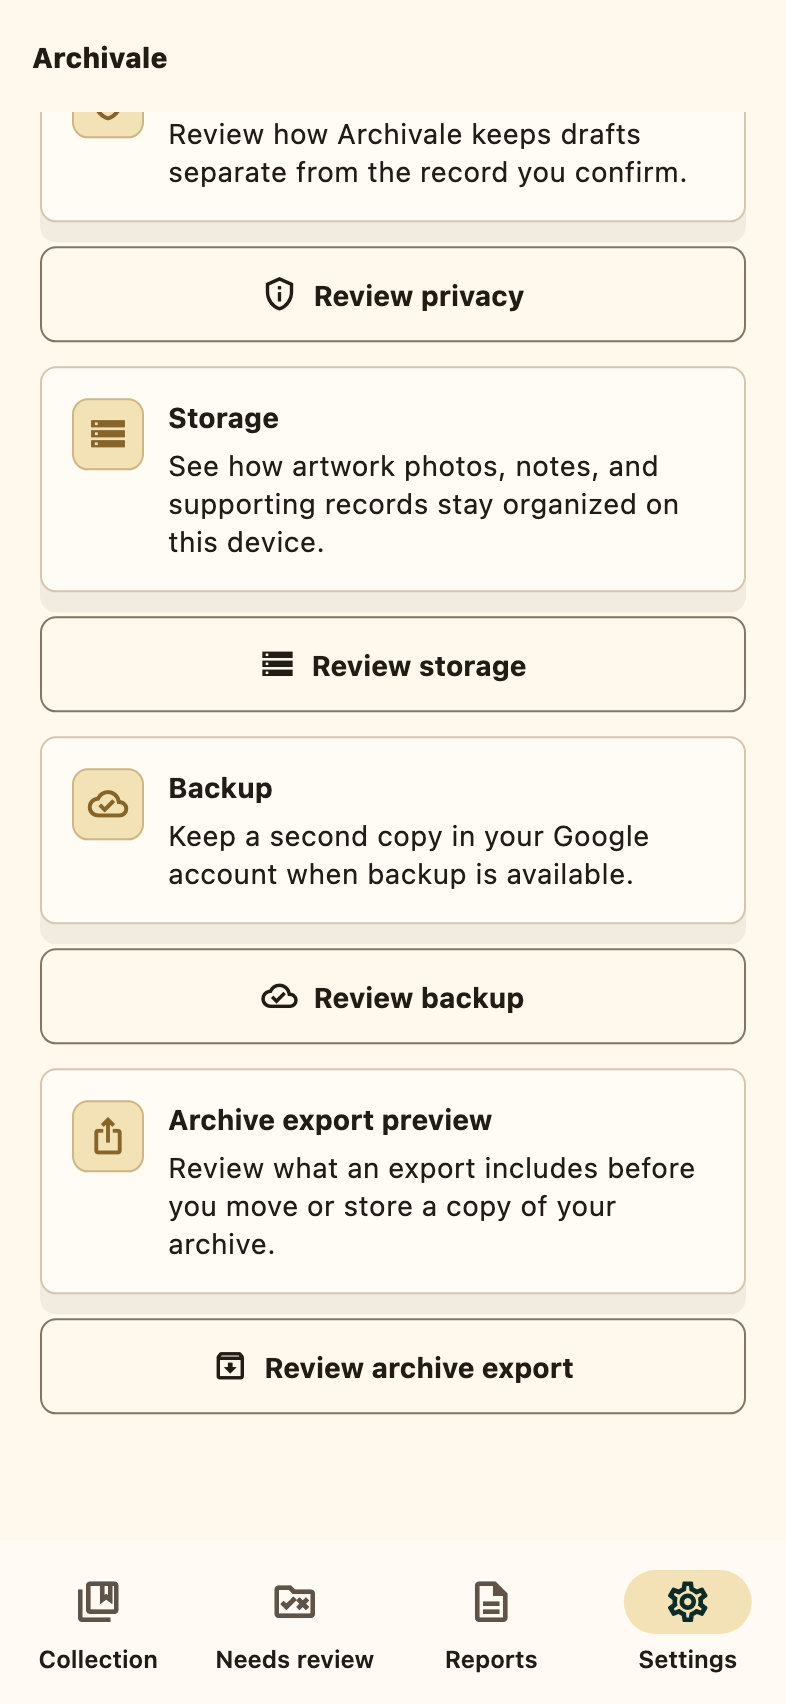
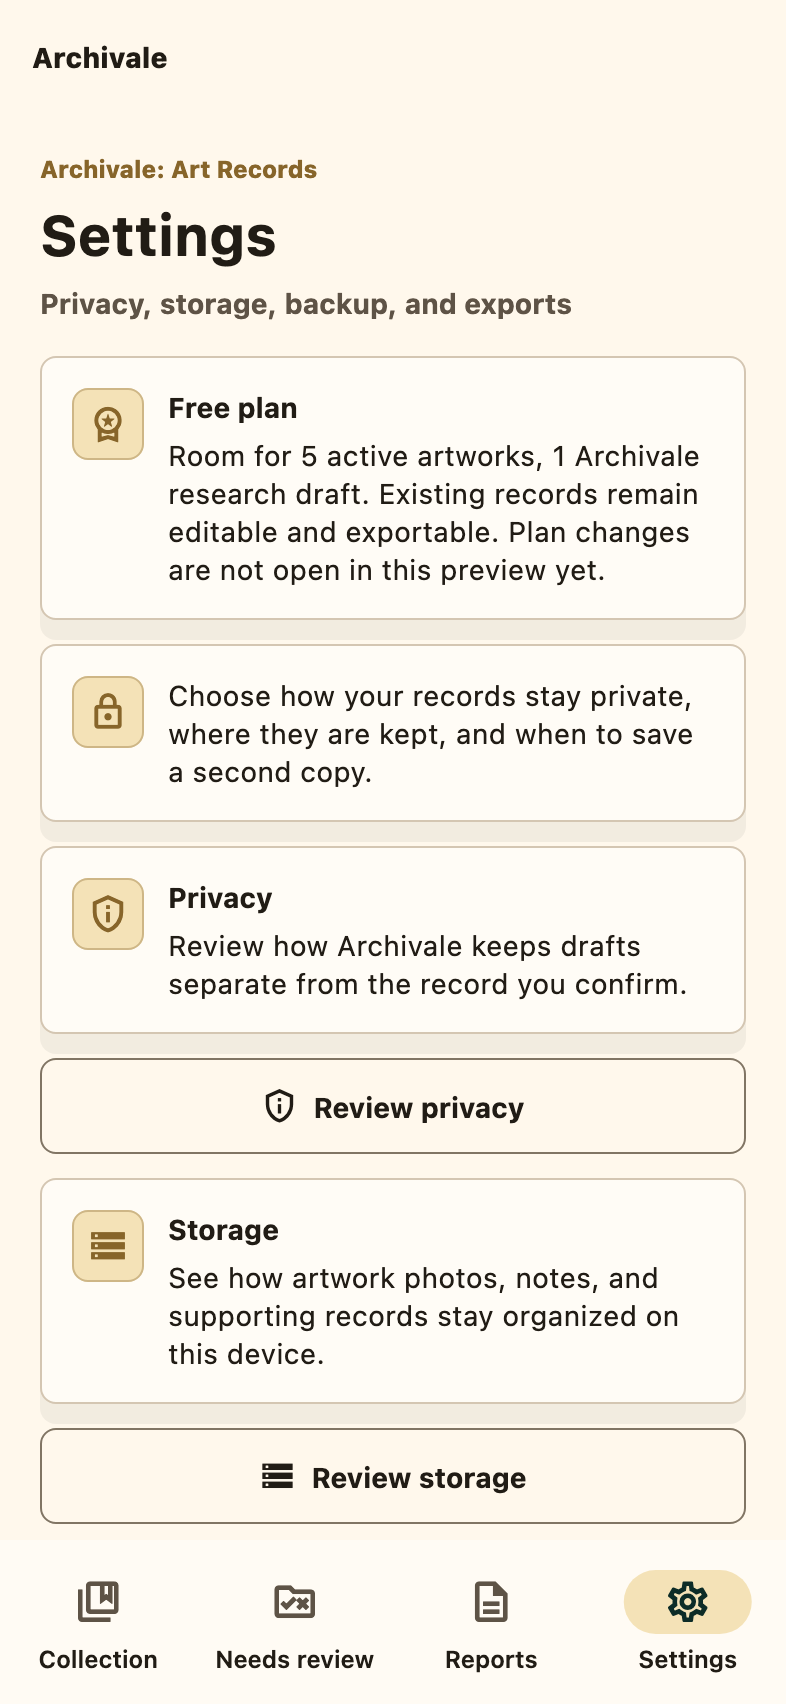
Fix settings trust heading evidence

diff --git a/test/widget_test.dart b/test/widget_test.dart
@@ -3521,6 +3521,25 @@ void main() {
     }
   });
 
+  testWidgets('settings home keeps trust hub heading copy', (
+    WidgetTester tester,
+  ) async {
+    await _configureMobileViewport(tester);
+    await tester.pumpWidget(
+      ArchivaleApp(initialRoute: AppRoutes.collectionSettings),
+    );
+    await pumpReady(tester);
+
+    expect(find.text('Settings'), findsWidgets);
+    expect(find.text('Privacy, storage, backup, and exports'), findsOneWidget);
+    expect(
+      find.text(
+        'Choose how your records stay private, where they are kept, and when to save a second copy.',
+      ),
+      findsOneWidget,
+    );
+  });
+
   testWidgets('settings trust routes keep collector-facing copy', (
     WidgetTester tester,
   ) async {
@@ -3870,7 +3889,6 @@ void main() {
       dependencies: fixture.dependencies,
       themeMode: ThemeMode.light,
       fileName: 'issue-172-settings-home-light.png',
-      ensureVisibleFinder: find.text('Review privacy'),
     );
     await captureArtifactForApp(
       tester,
@@ -3902,7 +3920,6 @@ void main() {
       dependencies: fixture.dependencies,
       themeMode: ThemeMode.dark,
       fileName: 'issue-172-settings-home-dark.png',
-      ensureVisibleFinder: find.text('Review privacy'),
     );
     await captureArtifactForApp(
       tester,

diff --git a/lib/app/screens/prototype_flow.dart b/lib/app/screens/prototype_flow.dart
@@ -499,7 +499,7 @@ class SettingsHomeScreen extends StatelessWidget {
       children: [
         const _Heading(
           title: 'Settings',
-          subtitle: 'Privacy, backup, and exports',
+          subtitle: 'Privacy, storage, backup, and exports',
         ),
         const SizedBox(height: 16),
         if (dependencies != null) ...[